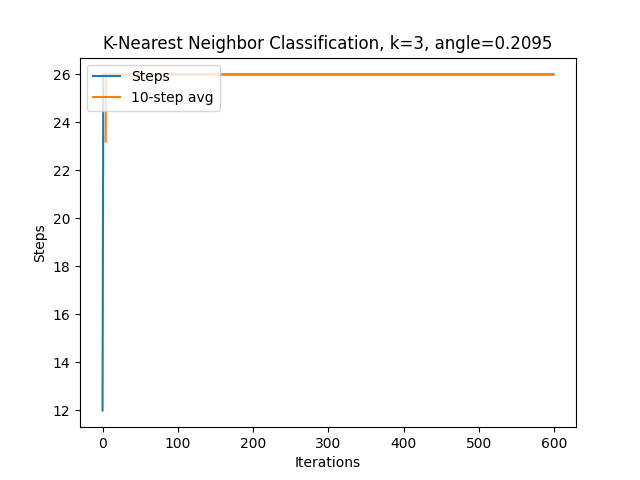
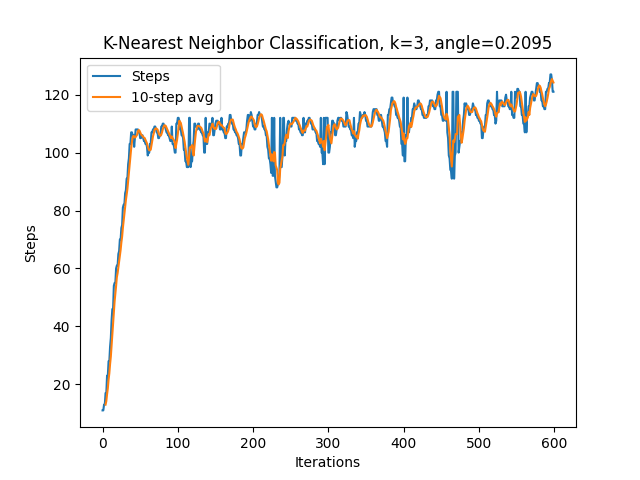
CartPoolTree kind of works, but it is just DFS?

diff --git a/classes/cartPoleTreeNode.py b/classes/cartPoleTreeNode.py
@@ -1,30 +1,46 @@
 import random
 
+##### Strategies ########
 EXPLORE = 0
-MAXIMIZE_POINTS = 1
+BALANCED = 1
+MAXIMIZE_POINTS = 2
+#########################
 
-RISK_THRESHOLD = 3.5
+##### Constants ########
+RISK_THRESHOLD = 4.5
+EXPLORE_PERCENTAGE = 0.5
+STRATEGY = BALANCED
 
+########################
 
 class CartPoleTreeNode:
-    def __init__(self, state, time_step, is_final):
+    def __init__(self, state, time_step, strategy, id):
         self.name = "test"
         self.children = [None, None]
         self.state = state
         self.time_step = time_step
-        self.max_depth = 0 if is_final else 1
-        self.max_unexplored_depth = 0 if is_final else 1
+        self.is_final = False
+        self.max_depth = 1
+        self.max_unexplored_depth = 1
         self.risk_weighted_score = self.update_risk_weighted_score()
-        self.holes_beneath = 0 if is_final else 2
-        self.strategy = MAXIMIZE_POINTS
-        self.is_final = is_final
+        self.holes_beneath = 2
         self.most_recent_choice = -1
+        self.strategy = strategy
         self.visited = 0
+        self.id = id
+
+    def mark_final(self):
+        self.max_depth = 0
+        self.max_unexplored_depth = 0
+        self.holes_beneath = 0
+        self.is_final = True
+        self.risk_weighted_score = 0
+
 
     def update(self):
         if self.children[0] != None and self.children[1] != None:
-            self.max_depth = max(self.children[0].max_depth, self.children[0].max_depth) + 1
-            self.max_unexplored_depth = max(self.children[0].max_depth, self.children[0].max_depth)
+            self.max_depth = max(self.children[0].max_depth, self.children[1].max_depth) + 1
+            self.max_unexplored_depth = max(self.children[0].max_unexplored_depth, self.children[1].max_unexplored_depth)
             if self.max_unexplored_depth != 0:
                 self.max_unexplored_depth += 1
             self.holes_beneath = self.children[0].holes_beneath + self.children[1].holes_beneath
@@ -37,21 +53,28 @@ class CartPoleTreeNode:
         self.risk_weighted_score = self.update_risk_weighted_score()
 
 
-    def register_move(self, new_state, new_time_step, is_final, direction):
+    def register_move(self, new_state, new_time_step, direction):
         if self.children[direction] != None:
-            if (not self.states_are_equal(new_state, self.children[direction].state) or is_final != self.children[direction].is_final) and False:
-                print("States are not matching")
-                # TODO fix this part
-                # Why are same steps not giving same results?
+            self.children[direction].strategy = self.strategy
         else:
-            self.children[direction] = CartPoleTreeNode(new_state, new_time_step, is_final)
+            id = self.id + str(self.most_recent_choice)
+            self.children[direction] = CartPoleTreeNode(new_state, new_time_step, self.strategy, id)
         return self.children[direction]
 
     def pick_action(self, new_strategy=None):
         if new_strategy != None:
             self.strategy = new_strategy
+
         if self.strategy == MAXIMIZE_POINTS:
             choice = self.maximize_points()
+        elif self.strategy == BALANCED:
+            if self.time_step == 0 and self.consider_explore():
+                choice = self.explore()
+                self.strategy = EXPLORE
+            else:
+                choice = self.balanced()
+        elif self.strategy == EXPLORE:
+            return self.explore()
         else:
             choice = 0
         self.most_recent_choice = choice
@@ -66,14 +89,37 @@ class CartPoleTreeNode:
         return True
 
     def update_risk_weighted_score(self):
-        return max(self.max_depth, self.max_unexplored_depth + RISK_THRESHOLD)
+        return 0 if self.is_final else max(self.max_depth, (self.max_unexplored_depth + RISK_THRESHOLD) if self.max_unexplored_depth != 0 else 0)
+
+    def explore(self):
+        left_explorable = self.children[0] == None or self.children[0].max_unexplored_depth != 0
+        right_explorable = self.children[1] == None or self.children[1].max_unexplored_depth != 0
+        if left_explorable and not right_explorable:
+            return 0
+        if right_explorable and not left_explorable:
+            return 1
+        return self.balanced()
+
+    def balanced(self):
+        left_score = 1 + RISK_THRESHOLD if self.children[0] == None else self.children[0].risk_weighted_score
+        right_score = 1 + RISK_THRESHOLD if self.children[1] == None else self.children[1].risk_weighted_score
+        if left_score == right_score:
+            return 0
+        return 0 if left_score > right_score else 1
 
     def maximize_points(self):
         left_score = 1+RISK_THRESHOLD if self.children[0] == None else self.children[0].risk_weighted_score
         right_score = 1+RISK_THRESHOLD if self.children[1] == None else self.children[1].risk_weighted_score
         if left_score == right_score:
-            return random.getrandbits(1)
+            return 0
         return 0 if left_score > right_score else 1
+
+    def consider_explore(self):
+        should_explore = random.random() < EXPLORE_PERCENTAGE
+        return should_explore
+
+    def set_root_strategy(self, strategy):
+        self.strategy = strategy
 
     def visualize_tree(self):
         if self.children[0] == None and self.children[1] == None:
@@ -97,6 +143,8 @@ class CartPoleTreeNode:
         if self.most_recent_choice == -1:
             return ""
         return str(self.most_recent_choice) + self.children[self.most_recent_choice].show_selected_path()
+
+
 
 
 

diff --git a/cartPole/standardTree.py b/cartPole/standardTree.py
@@ -12,7 +12,7 @@ from classes.cartPoleTreeNode import *
 
 ############### Constants ###################
 CUTOFF = True
-CUTOFFPOINT = 600
+CUTOFFPOINT = 6000
 
 STOP_AFTER_CONSEC_500S = False
 
@@ -29,6 +29,8 @@ K_END = 1
 K_STEP = 1
 
 STEPS_PER_NODE = 3
+
+START_STRATEGY = BALANCED
 ########### End constants #################
 
 path = f"plots\\standard_tree\\{ANGLE}_angle\\{CUTOFFPOINT}_gens"
@@ -64,27 +66,26 @@ def run_k_nearest(k=-1, show_results=True, save_results=True, window_width=5):
     its_before_finished = 0
 
     data = np.array([], dtype=int)
-    root_node = CartPoleTreeNode(observation, 0, False)
+    root_node = CartPoleTreeNode(observation, 0, START_STRATEGY, "-")
     visited_nodes = []
     current_node = root_node
 
     while its_before_finished < CUTOFFPOINT:
         if steps_alive%STEPS_PER_NODE == 0:
-            if steps_alive >= 20:
-                testwer = "sdf"
             action = current_node.pick_action()
 
         observation, reward, terminated, truncated, info = env.step(action)
 
         if steps_alive%STEPS_PER_NODE == 0:
             visited_nodes.append(current_node)
-            current_node = current_node.register_move(observation, steps_alive, is_game_over(observation), action)
+            current_node = current_node.register_move(observation, steps_alive, action)
 
 
         steps_alive += 1
 
         if (np.abs(observation[2]) > ANGLE or np.abs(observation[0]) > 2.4 or truncated):
             if not truncated:
+                current_node.mark_final()
                 for node in reversed(visited_nodes):
                     node.update()
                 last_it_succeeded = False
@@ -96,11 +97,12 @@ def run_k_nearest(k=-1, show_results=True, save_results=True, window_width=5):
                     last_it_succeeded = True
 
             current_node = root_node
+            root_node.set_root_strategy(START_STRATEGY)
             visited_nodes = []
             observation, info = env.reset(seed=0)
 
-            #print(f"{its_before_finished}: Steps alive: {steps_alive}")
-            print(root_node.visualize_tree())
+            print(f"{its_before_finished}: Steps alive: {steps_alive}")
+            #print(root_node.visualize_tree())
             #print(root_node.show_selected_path())
             data = np.append(data, [steps_alive])
             steps_alive = 0
@@ -126,7 +128,10 @@ def run_k_nearest(k=-1, show_results=True, save_results=True, window_width=5):
     return data
 
 def is_game_over(observation):
-    return np.abs(observation[2]) > ANGLE or np.abs(observation[0]) > 2.4
+    game_over = np.abs(observation[2]) > ANGLE or np.abs(observation[0]) > 2.4
+    if game_over:
+        print("hmmm")
+    return game_over
 
 
 def run_and_compare_range_k_nearest(bottom, top, window_width, step=1):
